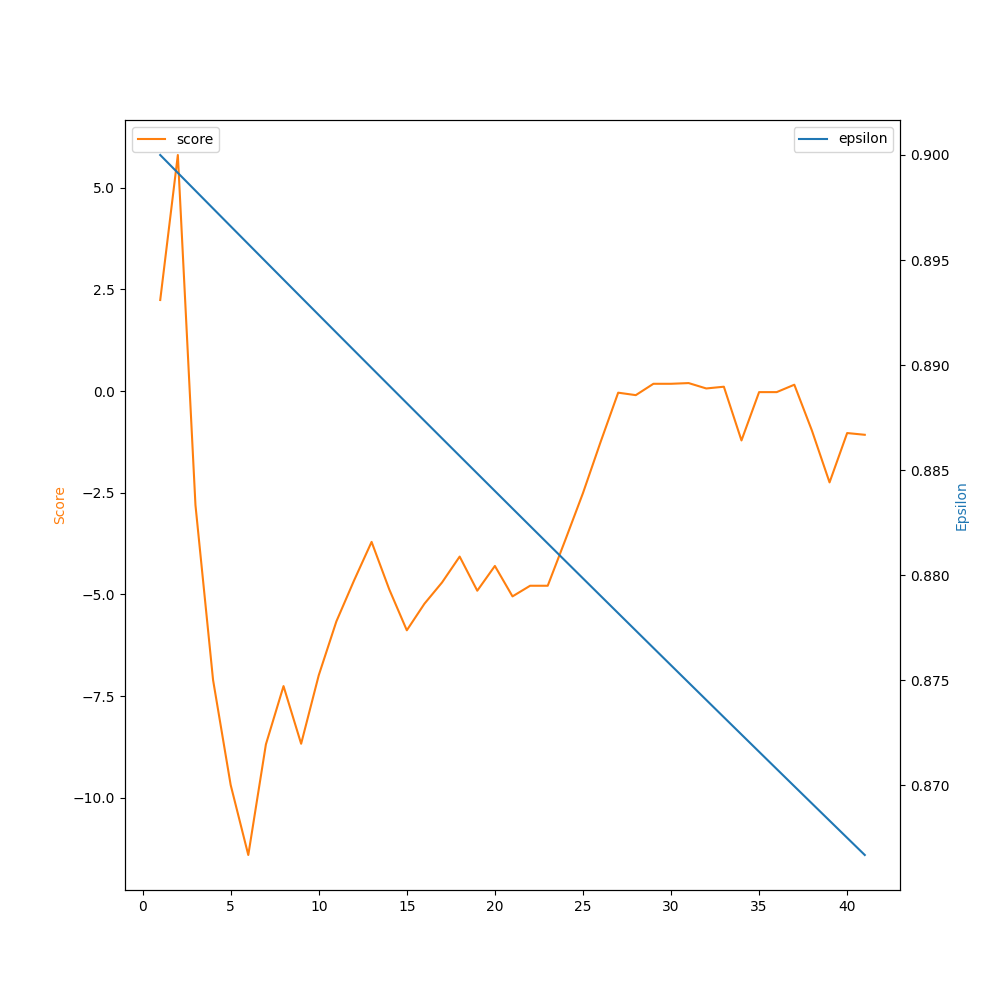
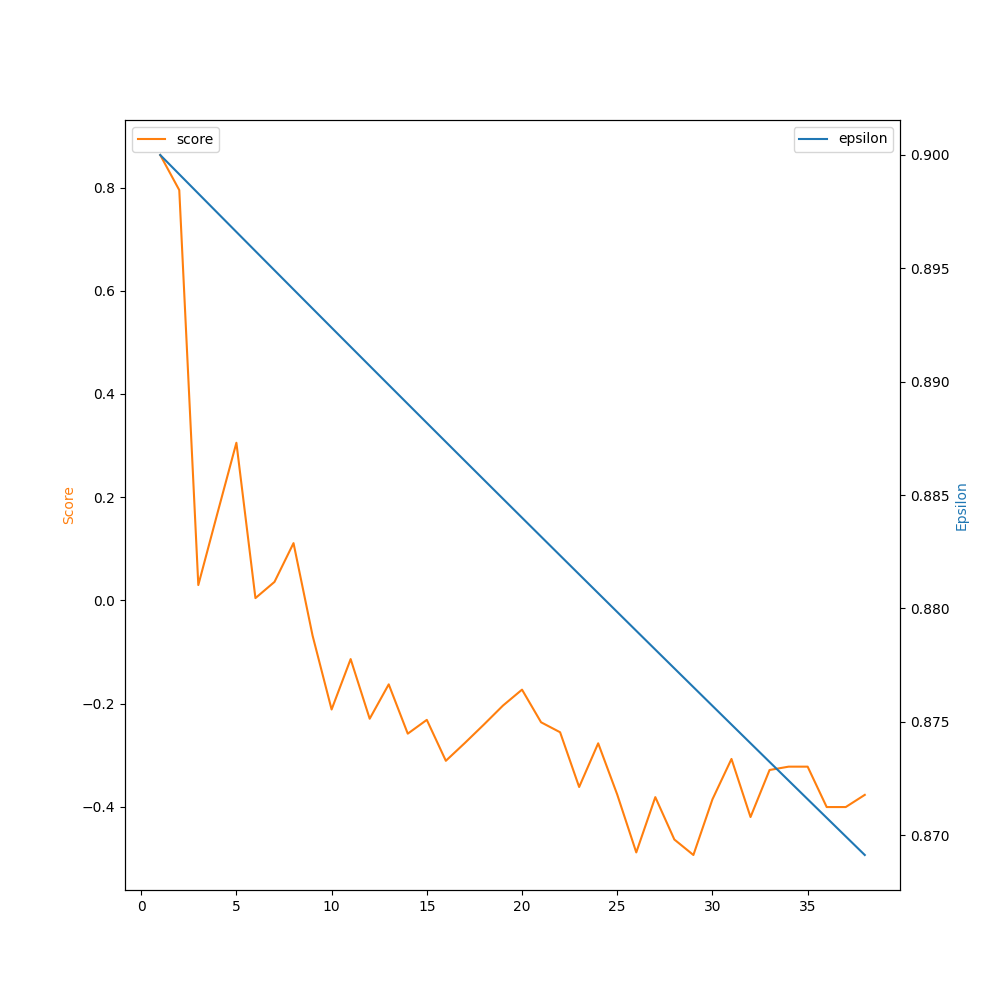
cuda mem errors

diff --git a/DQN/Agent3.py b/DQN/Agent3.py
@@ -13,9 +13,9 @@ class DQN(nn.Module):
     def __init__(self, n_observations, n_actions):
         super(DQN, self).__init__()
         self.device = T.device("cuda" if T.cuda.is_available() else "cpu")
-        self.layer1 = nn.Linear(n_observations, 128)
-        self.layer2 = nn.Linear(128, 128)
-        self.layer3 = nn.Linear(128, n_actions)
+        self.layer1 = nn.Linear(n_observations, 64)
+        self.layer2 = nn.Linear(64, 64)
+        self.layer3 = nn.Linear(64, n_actions)
 
     # Called with either one element to determine next action, or a batch
     # during optimization. Returns tensor([[left0exp,right0exp]...]).
@@ -85,7 +85,7 @@ class Agent3:
         sample = random.random()
         self.epsilon = self.eps_end + (self.eps_max - self.eps_end) * \
             math.exp(-1. * episode/self.eps_decay)
-        print("epsilon: "+str(self.epsilon)+" sample: "+str(sample)+"exploit: "+str(self.exploit)+" explore: "+str(self.explore))
+        # print("epsilon: "+str(self.epsilon)+" sample: "+str(sample)+"exploit: "+str(self.exploit)+" explore: "+str(self.explore))
         
        
      

diff --git a/test8.py b/test8.py
@@ -11,7 +11,7 @@ from DQN.Agent3 import Agent3
 EPISODES=10000
 SHOW_EVERY=100
 STEPS=8000
-BATCH_SIZE = 64
+BATCH_SIZE = 32
 GAMMA = 0.99
 epsilon=0.9
 EPS_MAX = 0.9
@@ -79,16 +79,14 @@ for episode in range(EPISODES):
                  step += 1
                 
        
-    if not Failed:
-        print("Starting From: "+start_lane) 
-        print("success after "+str(step) +" steps")    
+   
     score = float(score)   
     scores.append(score)
     eps_history.append(epsilon)
     avg_score = np.mean(scores[-100:])
-    print('episode: ', episode,'score: %.2f' % score,
+    print('---------episode: ', episode,'score: %.2f' % score,
             ' average score %.2f' % avg_score,
-            'epsilon %.2f' % epsilon)
+            'epsilon %.2f' % epsilon,"----- step: ",step)
     x = [i+1 for i in range(len(scores))]
     filename = 'sumo-agent.png'
     plotLearning(x, scores, eps_history, filename,explore_count,exploit_count)

diff --git a/envs/env.py b/envs/env.py
@@ -159,7 +159,7 @@ class Basic(gym.Env):
     def step(self, action):
         
         
-        self.reward+=-0.01
+        self.reward+=-0.001
         self.steps+= 1
         oldvedge=self.vedge
         
@@ -205,10 +205,10 @@ class Basic(gym.Env):
         self.no_choice=False
         info={}
         if self.vedge==self.pedge:
-            self.reward+=10
+            self.reward+=1
             done=True
         if self.steps>self.steps_per_episode:
-            self.reward+=-10
+            self.reward+=-0.5
             done=True
             
         if oldvedge==self.vedge:
